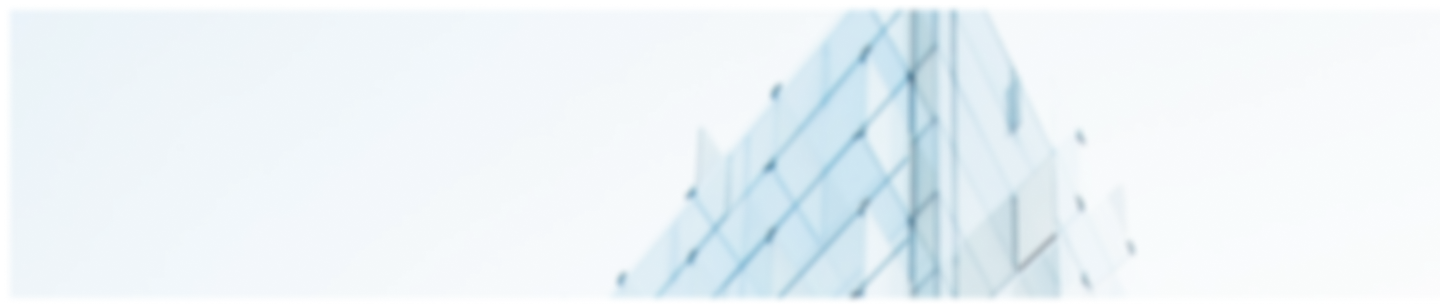
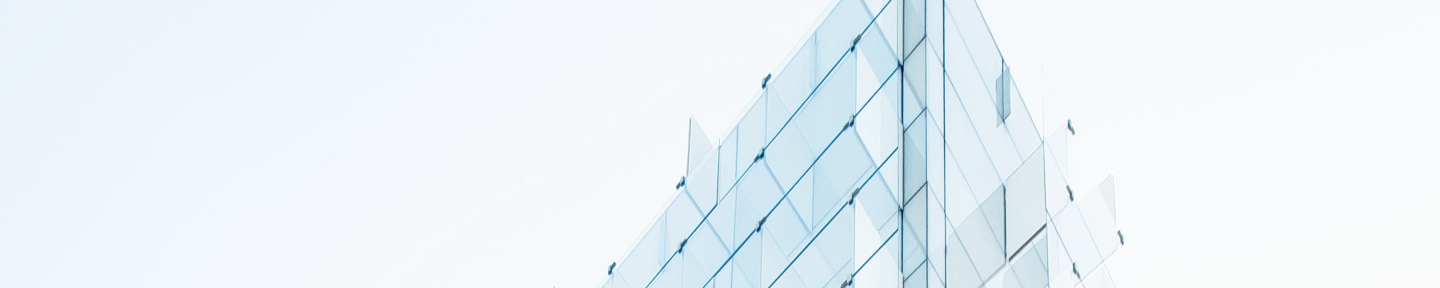
sASD

Changed region(s): [[0.4062, 0.0, 0.7812, 1.0], [0.7812, 0.7812, 0.8125, 0.8125]]

diff --git a/src/components/about/About.jsx b/src/components/about/About.jsx
@@ -8,7 +8,7 @@ import { motion, useAnimation } from 'framer-motion'
 function About({ setSectionValue }) {
   const animation = useAnimation()
   const { ref, inView } = useInView({
-    threshold: 0.5,
+    threshold: 0.8,
   })
   useEffect(() => {
     if (inView) {
@@ -31,7 +31,7 @@ function About({ setSectionValue }) {
   return (
     <div className={cls.container} id='about'>
       <div className='wrapper'>
-        <div className={cls.inner}>
+        <div className={cls.inner} ref={ref}>
           <div className={cls.left}>
             <DottedBackgroundSmall />
             <p className={`${cls.title} title bg`}>About us</p>
@@ -53,7 +53,7 @@ function About({ setSectionValue }) {
           </div>
           <div className={cls.right}>
             <DottedBackgroundLarge />
-            <div className={cls.img_cont} ref={ref}>
+            <div className={cls.img_cont}>
               <motion.img
                 animate={animation}
                 variants={variants}

diff --git a/src/components/contact/contact.module.scss b/src/components/contact/contact.module.scss
@@ -33,6 +33,10 @@
       background: #fff;
       box-shadow: rgba(17, 17, 26, 0.1) 0px 4px 16px,
         rgba(17, 17, 26, 0.1) 0px 4px 16px;
+      -webkit-box-shadow: rgba(17, 17, 26, 0.1) 0px 4px 16px,
+        rgba(17, 17, 26, 0.1) 0px 4px 16px;
+      -moz-box-shadow: rgba(17, 17, 26, 0.1) 0px 4px 16px,
+        rgba(17, 17, 26, 0.1) 0px 4px 16px;
       .title {
         font-weight: 900;
         font-size: 48px;
@@ -72,6 +76,10 @@
           padding: 10px;
           border-radius: 4px;
           box-shadow: 1px 1px 20px rgba(0, 0, 0, 0.05),
+            -1px -1px 20px rgba(0, 0, 0, 0.05);
+          -webkit-box-shadow: 1px 1px 20px rgba(0, 0, 0, 0.05),
+            -1px -1px 20px rgba(0, 0, 0, 0.05);
+          -moz-box-shadow: 1px 1px 20px rgba(0, 0, 0, 0.05),
             -1px -1px 20px rgba(0, 0, 0, 0.05);
           margin: 10px 0;
           font-size: 18px;

diff --git a/src/components/whyus/whyus.module.scss b/src/components/whyus/whyus.module.scss
@@ -18,8 +18,11 @@
     grid-gap: 24px;
 
     .left {
+      overflow: hidden;
       .img_cont {
         min-width: 150px;
+        width: 100%;
+        max-height: 400px;
         position: relative;
         img {
           width: 100%;
@@ -37,6 +40,7 @@
         }
         @media (max-width: 576px) {
           padding-top: 20px;
+          max-height: 315px;
           .top_element {
             display: initial;
           }
@@ -46,7 +50,6 @@
         display: none;
         writing-mode: vertical-rl;
         transform: rotate(180deg);
-        padding-right: 10px;
         text-align: left;
         @media (max-width: 576px) {
           display: block;

diff --git a/src/components/map/Map.jsx b/src/components/map/Map.jsx
@@ -8,7 +8,7 @@ import { useInView } from 'react-intersection-observer'
 function Map({ setSectionValue }) {
   const animation = useAnimation()
   const { ref, inView } = useInView({
-    threshold: 0.5,
+    threshold: 0.8,
   })
   useEffect(() => {
     if (inView) {
@@ -28,7 +28,7 @@ function Map({ setSectionValue }) {
   }
   return (
     <div className={cls.container} ref={ref}>
-      <div className='wrapper'>
+      <div className='wrapper small'>
         <div className={cls.inner}>
           <div className={cls.left}>
             <DottedBackgroundSmall />

diff --git a/src/components/footer/footer.module.scss b/src/components/footer/footer.module.scss
@@ -1,19 +1,24 @@
 .container {
   position: relative;
-  & > img {
+  background-repeat: no-repeat;
+  background-size: cover;
+  &::after {
+    content: '';
     position: absolute;
     top: 0;
     left: 0;
     width: 100%;
     height: 100%;
-    z-index: -1;    
+    z-index: 1;
     object-fit: cover;
-    object-position: left;
+    backdrop-filter: blur(5px);
   }
+
   .inner {
     max-width: 300px;
-    padding: 80px 0;
-
+    position: relative;
+    padding: 50px 0;
+    z-index: 2;
     .logo {
       width: 140px;
       img {

diff --git a/src/components/map/map.module.scss b/src/components/map/map.module.scss
@@ -1,11 +1,11 @@
 .container {
-  padding: 100px 0;
+  padding: 160px 0 100px;
   @media (max-width: 576px) {
     padding: 50px 0;
   }
   .inner {
     display: grid;
-    grid-template-columns: 1fr 1fr;
+    grid-template-columns: 2fr 3fr;
     @media (max-width: 576px) {
       grid-template-columns: 1fr;
     }
@@ -13,7 +13,7 @@
       display: flex;
       justify-content: center;
       flex-direction: column;
-      align-items: flex-end;
+      align-items: flex-start;
       position: relative;
       & > svg {
         top: 70%;

diff --git a/src/components/footer/Footer.jsx b/src/components/footer/Footer.jsx
@@ -5,8 +5,8 @@ import bg from '../../images/footer_bg.png'
 import { Phone } from '../svg'
 function Footer() {
   return (
-    <div className={cls.container}>
-      <img src={bg} alt='Background' />
+    <div className={cls.container} style={{ backgroundImage: `url(${bg})` }}>
+      {/* <img src={bg} alt='Background' /> */}
       <div className='wrapper'>
         <div className={cls.inner}>
           <div className={cls.logo}>

diff --git a/src/components/whyus/WhyUs.jsx b/src/components/whyus/WhyUs.jsx
@@ -28,7 +28,7 @@ function WhyUs() {
   return (
     <div className={cls.container} ref={ref}>
       <DottedBackgroundSmall />
-      <div className='wrapper'>
+      <div className='wrapper small'>
         <div className={cls.inner}>
           <div className={cls.left}>
             <div className={cls.img_cont}>

diff --git a/src/components/navigation/navigation.module.scss b/src/components/navigation/navigation.module.scss
@@ -39,7 +39,7 @@
     font-size: 68px;
     line-height: 92px;
     color: #3198c9;
-    padding: 5px;
+    padding: 13px;
     height: 100px;
     @media (max-width: 1000px) {
       font-size: 48px;

diff --git a/src/components/reviews/Reviews.jsx b/src/components/reviews/Reviews.jsx
@@ -37,7 +37,7 @@ function Reviews({ setSectionValue }) {
   ]
 
   const { ref, inView } = useInView({
-    threshold: 0.4,
+    threshold: 0.8,
   })
   useEffect(() => {
     if (inView) {

diff --git a/src/index.css b/src/index.css
@@ -38,7 +38,7 @@ body {
   margin: 0 auto;
 }
 .wrapper.small {
-  max-width: 1048px;
+  max-width: 1028px;
 }
 .big_title {
   font-weight: 900;
